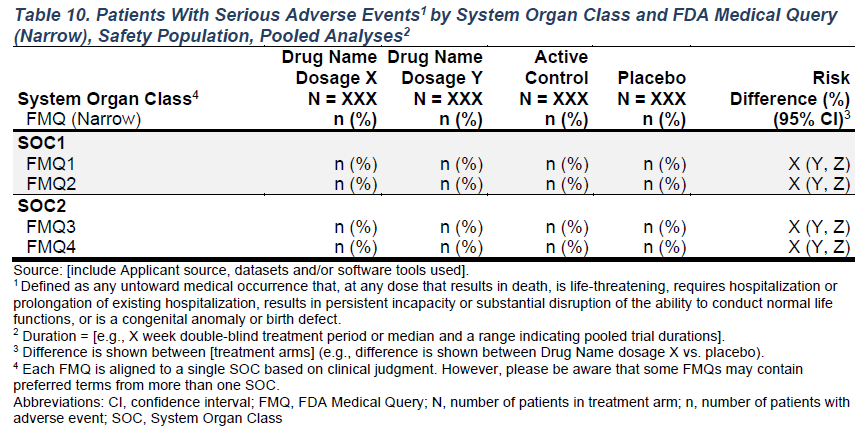
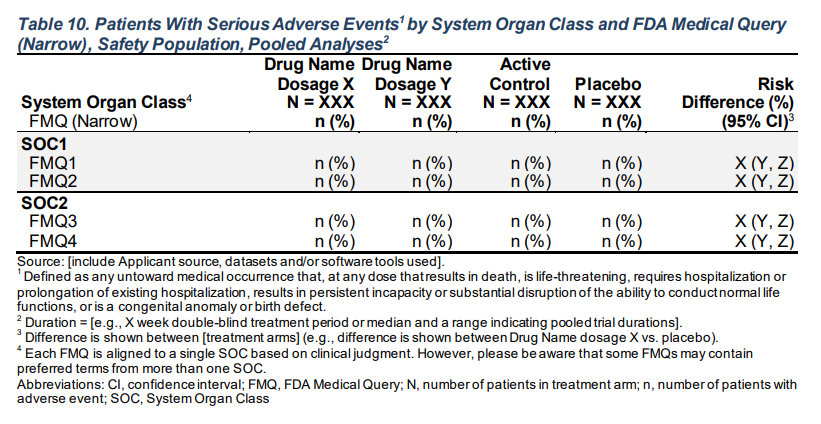
Add templates to index, fix typo, update NEWS

diff --git a/NEWS.md b/NEWS.md
@@ -1,7 +1,7 @@
 # falcon 0.1.0.9030
 
 ### New Features
-* Added new functions for creating standard FDA tables: `make_table_02`, `make_table_05`, `make_table_06`, `make_table_07`, `make_table_08`, `make_table_09`, `make_table_13`, `make_table_14`, `make_table_20`, `make_table_32`, `make_table_33`.
+* Added new functions for creating standard FDA tables: `make_table_02`, `make_table_05`, `make_table_06`, `make_table_07`, `make_table_08`, `make_table_09`, `make_table_10`, `make_table_11`, `make_table_12`, `make_table_13`, `make_table_14`, `make_table_20`, `make_table_32`, `make_table_33`.
 * Added helper functions used within table functions:
   * `basic_table_annot` for adding basic table annotations (titles, footnotes, column counts).
   * `split_cols_by_arm` for splitting columns by arm with option to add total column.
